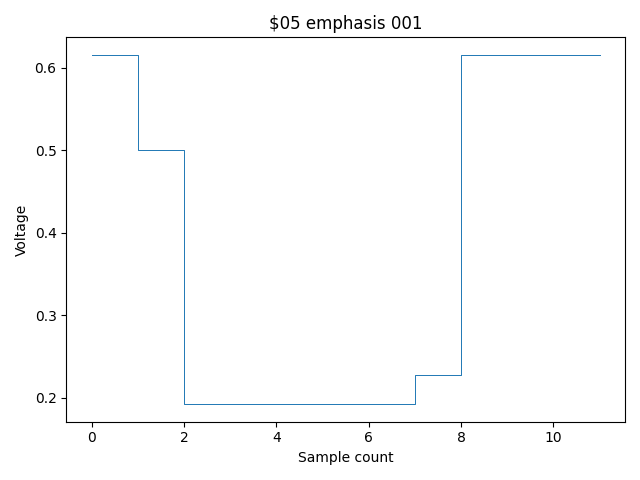
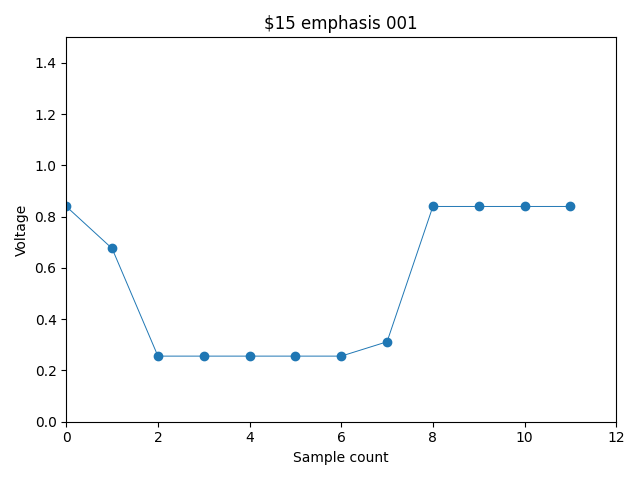
Add QAM demodulation visualizer; refactor code

diff --git a/palgen-persune.py b/palgen-persune.py
@@ -76,6 +76,8 @@ RGB_to_XYZ = np.empty([3, 3], np.float64)
 # -CCCCCC-----
 # signal buffer for decoding
 voltage_buffer = np.empty([12], np.float64)
+U_buffer = np.empty([12], np.float64)
+V_buffer = np.empty([12], np.float64)
 
 # decoded YUV buffer,
 YUV_buffer = np.empty([8,4,16,3], np.float64)
@@ -84,55 +86,58 @@ YUV_buffer = np.empty([8,4,16,3], np.float64)
 RGB_buffer = np.empty([8,4,16,3], np.float64)
 
 # fix issue with colors
-offset = 2
+offset = 1
 emphasis_offset = 1
 colorburst_phase = 8
-colorburst_offset = colorburst_phase - 7
+
+# due to the way the waveform is encoded, the hue is off by 15 degrees, or 1/2 of a sample
+colorburst_offset = colorburst_phase - 6 - 0.5
 
 parser=argparse.ArgumentParser(
     description="yet another NES palette generator",
-    epilog="version 0.0.2")
+    epilog="version 0.1.0")
 parser.add_argument("-o", "--output", type=str, help=".pal file output")
 parser.add_argument("-e", "--emphasis", action="store_true", help="add emphasis entries")
-parser.add_argument("-v", "--verbose", action="store_true", help="look at waveforms")
 parser.add_argument("-d", "--debug", action="store_true", help="debug messages")
 parser.add_argument("-n", "--normalize", action="store_true", help="normalize white point and black point within range of voltages")
+parser.add_argument("-v", "--visualize-wave", action="store_true", help="visualize composite waveforms")
+parser.add_argument("-p", "--phase-QAM", action="store_true", help="visualize QAM demodulation")
 
 parser.add_argument(
     "--brightness",
     type = np.float64,
-    help = "brightness, -1.0 to 1.0",
+    help = "brightness, -1.0 to 1.0, default = 0.0",
     default = 0.0)
 parser.add_argument(
     "--contrast",
     type = np.float64,
-    help = "contrast, 0.0 to 1.0",
+    help = "contrast, 0.0 to 1.0, default = 0.0",
     default = 0.0)
 
 parser.add_argument(
     "--hue",
     type = np.float64,
-    help = "hue angle, in degrees",
-    default = -15.0)
+    help = "hue angle delta, in degrees, default = 0.0",
+    default = 0)
 parser.add_argument(
     "--saturation",
     type = np.float64,
-    help ="saturation, -1.0 to 1.0",
+    help ="saturation delta, -1.0 to 1.0, default = 0.0",
     default = 0)
 parser.add_argument(
     "--phase-skew",
     type = np.float64,
-    help = "differential phase distortion, in degrees",
+    help = "differential phase distortion, in degrees, default = 0.0",
     default = 0)
 parser.add_argument(
     "--black-point",
     type = np.float64,
-    help = "black point, in voltage units relative to blanking",
+    help = "black point, in voltage units relative to blanking, default = 7.5/140.0",
     default =  7.5/140) # 7.5 IRE
 parser.add_argument(
     "--white-point",
     type = np.float64,
-    help = "white point, in voltage units relative to blanking",
+    help = "white point, in voltage units relative to blanking, default = 100.0/140.0",
     default = 100/140) # 100 IRE
 
 args = parser.parse_args()
@@ -192,13 +197,14 @@ for emphasis in range(8):
 
             if (args.debug):
                 print("${0:02X} emphasis {1:03b}".format((luma<<4 | hue), emphasis) + "\n" + str(voltage_buffer))
-            if (args.verbose):
+            if (args.visualize_wave):
                 plt.title("${0:02X} emphasis {1:03b}".format((luma<<4 | hue), emphasis))
                 x = np.arange(0,12)
                 y = voltage_buffer
+                plt.axis([0, 12, 0, 1.5])
                 plt.xlabel("Sample count")
                 plt.ylabel("Voltage")
-                plt.step(x, y, linewidth=0.7)
+                plt.plot(x, y, 'o-', linewidth=0.7)
                 plt.tight_layout()
                 plt.draw()
                 plt.show()
@@ -208,27 +214,43 @@ for emphasis in range(8):
             voltage_buffer *= amplification_factor
 
             # decode voltage buffer to YUV
-            UV_buffer = np.empty([12], np.float64)
             # decode Y
             YUV_buffer[emphasis, luma, hue, 0] = np.average(voltage_buffer)
 
             # decode U
             for t in range(12):
-                UV_buffer[t] = voltage_buffer[t] * np.sin(
-                    2 * np.pi * (1 / 12) * (t + colorburst_offset) +
+                U_buffer[t] = voltage_buffer[t] * np.sin(
+                    2 * np.pi / 12 * (t + colorburst_offset) +
                     np.radians(args.hue) -
-                    np.radians(args.phase_skew * luma)
-                    )
-            YUV_buffer[emphasis, luma, hue, 1] = np.average(UV_buffer) * (args.saturation + 1)
+                    np.radians(args.phase_skew * luma))
+            YUV_buffer[emphasis, luma, hue, 1] = np.average(U_buffer) * (args.saturation + 1)
 
             # decode V
             for t in range(12):
-                UV_buffer[t] = voltage_buffer[t] * np.cos(
-                    2 * np.pi * (1 / 12) * (t + colorburst_offset) +
+                V_buffer[t] = voltage_buffer[t] * np.cos(
+                    2 * np.pi / 12 * (t + colorburst_offset) +
                     np.radians(args.hue) -
-                    np.radians(args.phase_skew * luma)
-                    )
-            YUV_buffer[emphasis, luma, hue, 2] = np.average(UV_buffer) * (args.saturation + 1)
+                    np.radians(args.phase_skew * luma))
+            YUV_buffer[emphasis, luma, hue, 2] = np.average(V_buffer) * (args.saturation + 1)
+
+            # visualize chroma decoding
+            if (args.phase_QAM):
+                plt.title("QAM demodulating ${0:02X} emphasis {1:03b}".format((luma<<4 | hue), emphasis))
+                w = voltage_buffer
+                x = np.arange(0,12)
+                plt.xlabel("Sample count")
+                plt.ylabel("value")
+                plt.axis([0, 12, -1, 1])
+                plt.plot(x, voltage_buffer, 'o-', linewidth=0.7, label='normalized signal')
+                plt.plot(x, U_buffer, 'o-', linewidth=0.7, label='demodulated U wave')
+                plt.plot(x, V_buffer, 'o-', linewidth=0.7, label='demodulated V wave')
+                plt.plot(x, np.full((12), np.average(voltage_buffer)), 'o-', linewidth=0.7, label='Y value')
+                plt.plot(x, np.full((12), np.average(U_buffer)), 'o-', linewidth=0.7, label='U value')
+                plt.plot(x, np.full((12), np.average(V_buffer)), 'o-', linewidth=0.7, label='V value')
+                plt.tight_layout()
+                plt.legend(loc='lower right')
+                plt.draw()
+                plt.show()
 
             # decode YUV to RGB
             RGB_buffer[emphasis, luma, hue] = np.matmul(np.linalg.inv(RGB_to_YUV), YUV_buffer[emphasis, luma, hue])
@@ -244,7 +266,7 @@ for emphasis in range(8):
 
             # convert RGB to display output
             # TODO: color primaries transform from one profile to another
-            RGB_buffer[emphasis, luma, hue] = RGB_buffer[emphasis, luma, hue]
+            # RGB_buffer[emphasis, luma, hue] = RGB_buffer[emphasis, luma, hue]
 
     if not (args.emphasis):
         print("emphasis skipped")
@@ -259,6 +281,8 @@ else:
     Palette_colors_out = RGB_buffer[0]
     YUV_buffer_out = YUV_buffer[0]
     luma_range = 4
+
+# display data about the palette, and optionally write a .pal file
 
 if (type(args.output) != type(None)):
     with open(args.output, mode="wb") as Palette_file:

diff --git a/README.md b/README.md
@@ -3,16 +3,17 @@
 yet another NES palette generator, in Python
 ![complete NES palette](docs/palette.png)
 ![waveform preview](docs/waveform.png)
+![QAM demodulation](docs/QAM.png)
 
 ## Requirements
 
-This script requires `numpy` for color decoding.
-This script requires `matplotlib.pyplot` for previewing
+This script requires `numpy` for arrays and matricies used for color calculations.
+This script requires `matplotlib` for graphs.
 
 ## Usage
 ```
-usage: palgen-persune.py [-h] [-o OUTPUT] [-e] [-v] [-d] [--brightness BRIGHTNESS] [--contrast CONTRAST] [--hue HUE] [--saturation SATURATION]
-                         [--phase-skew PHASE_SKEW] [--white-ire WHITE_IRE]
+usage: palgen-persune.py [-h] [-o OUTPUT] [-e] [-d] [-n] [-v] [-p] [--brightness BRIGHTNESS] [--contrast CONTRAST] [--hue HUE] [--saturation SATURATION]
+                         [--phase-skew PHASE_SKEW] [--black-point BLACK_POINT] [--white-point WHITE_POINT]
 
 yet another NES palette generator
 
@@ -21,20 +22,24 @@ options:
   -o OUTPUT, --output OUTPUT
                         .pal file output
   -e, --emphasis        add emphasis entries
-  -v, --verbose         look at waveforms
   -d, --debug           debug messages
+  -n, --normalize       normalize white point and black point within range of voltages
+  -v, --visualize-wave  visualize composite waveforms
+  -p, --phase-QAM       visualize QAM demodulation
   --brightness BRIGHTNESS
-                        brightness, -1.0 to 1.0
-  --contrast CONTRAST   contrast, 0.0 to 1.0
-  --hue HUE             hue angle, in degrees
+                        brightness, -1.0 to 1.0, default = 0.0
+  --contrast CONTRAST   contrast, 0.0 to 1.0, default = 0.0
+  --hue HUE             hue angle delta, in degrees, default = 0.0
   --saturation SATURATION
-                        saturation, -1.0 to 1.0
+                        saturation delta, -1.0 to 1.0, default = 0.0
   --phase-skew PHASE_SKEW
-                        differential phase distortion, in degrees
-  --white-ire WHITE_IRE
-                        differential phase distortion, in degrees
+                        differential phase distortion, in degrees, default = 0.0
+  --black-point BLACK_POINT
+                        black point, in voltage units relative to blanking, default = 7.5/140.0
+  --white-point WHITE_POINT
+                        white point, in voltage units relative to blanking, default = 100.0/140.0
 
-version 0.0.1
+version 0.1.0
 ```
 
 ## License
